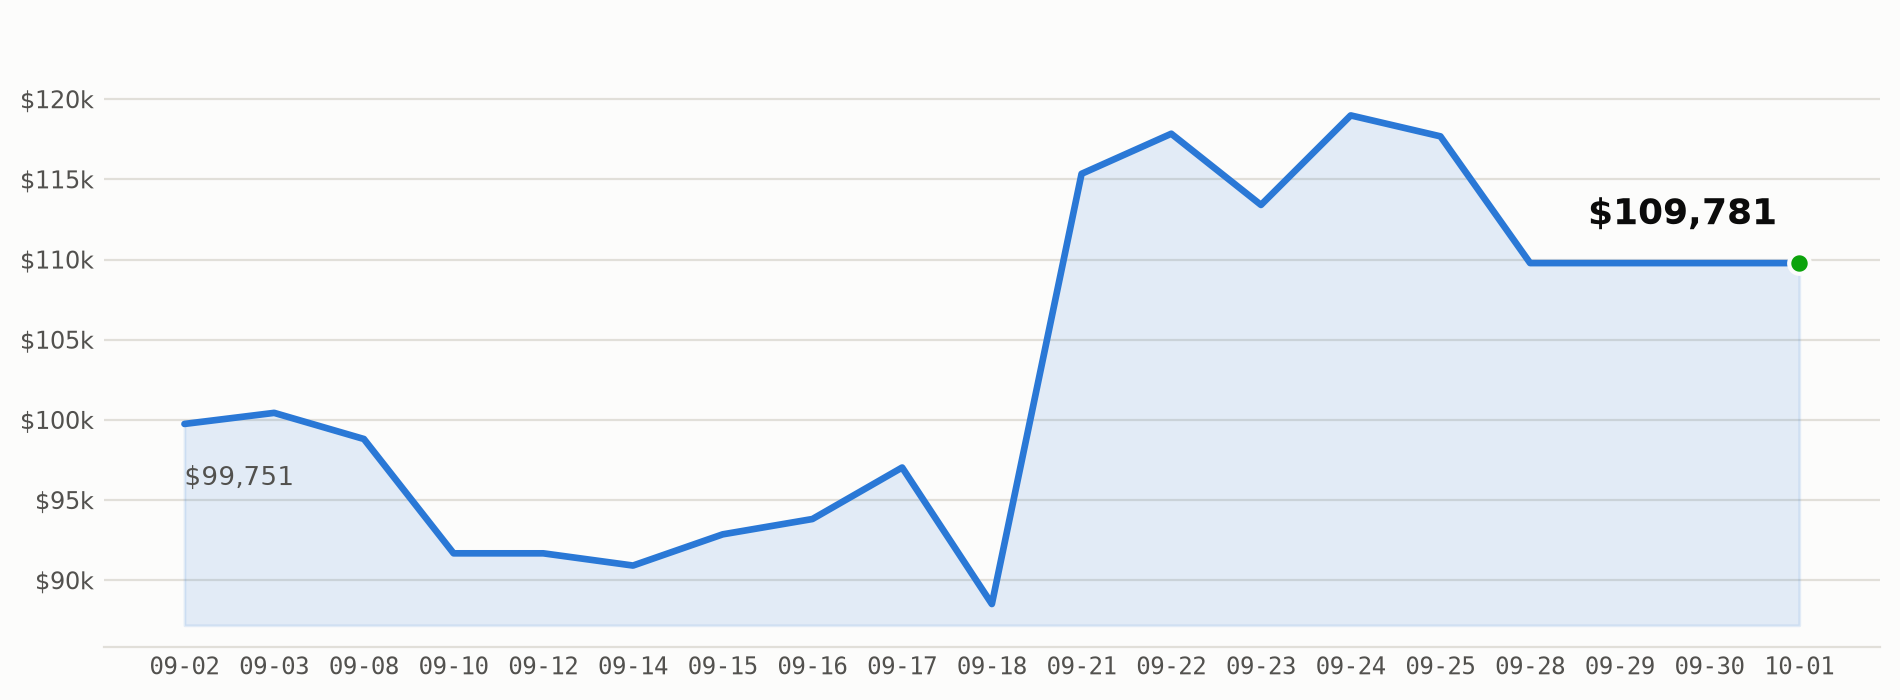
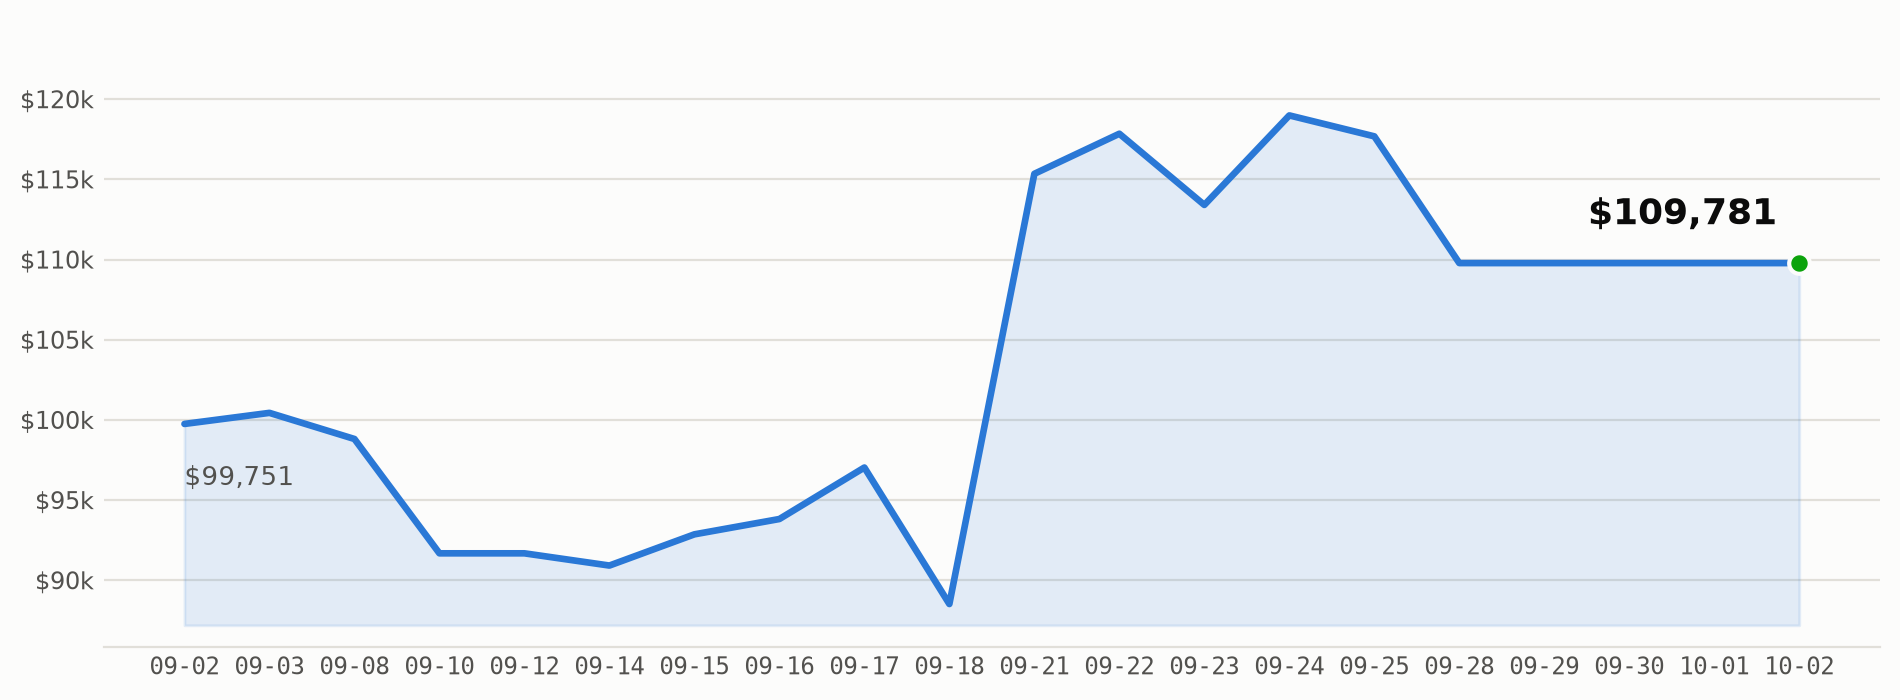
Daily dashboard update for 2026-10-02
Automated commit from scripts/daily_run.py after the market-close run.

diff --git a/README.md b/README.md
@@ -12,7 +12,7 @@ An autonomous AI trading agent for Alpaca's **Options Alpha** hackathon track.
 </p>
 
 <p align="center">
-  <img src="docs/equity_curve.png?v=2026-10-01-109781" alt="AlphaCa account equity over time, currently $109,781" width="800">
+  <img src="docs/equity_curve.png?v=2026-10-02-109781" alt="AlphaCa account equity over time, currently $109,781" width="800">
 </p>
 <!-- PNL_DASHBOARD_END -->
 
